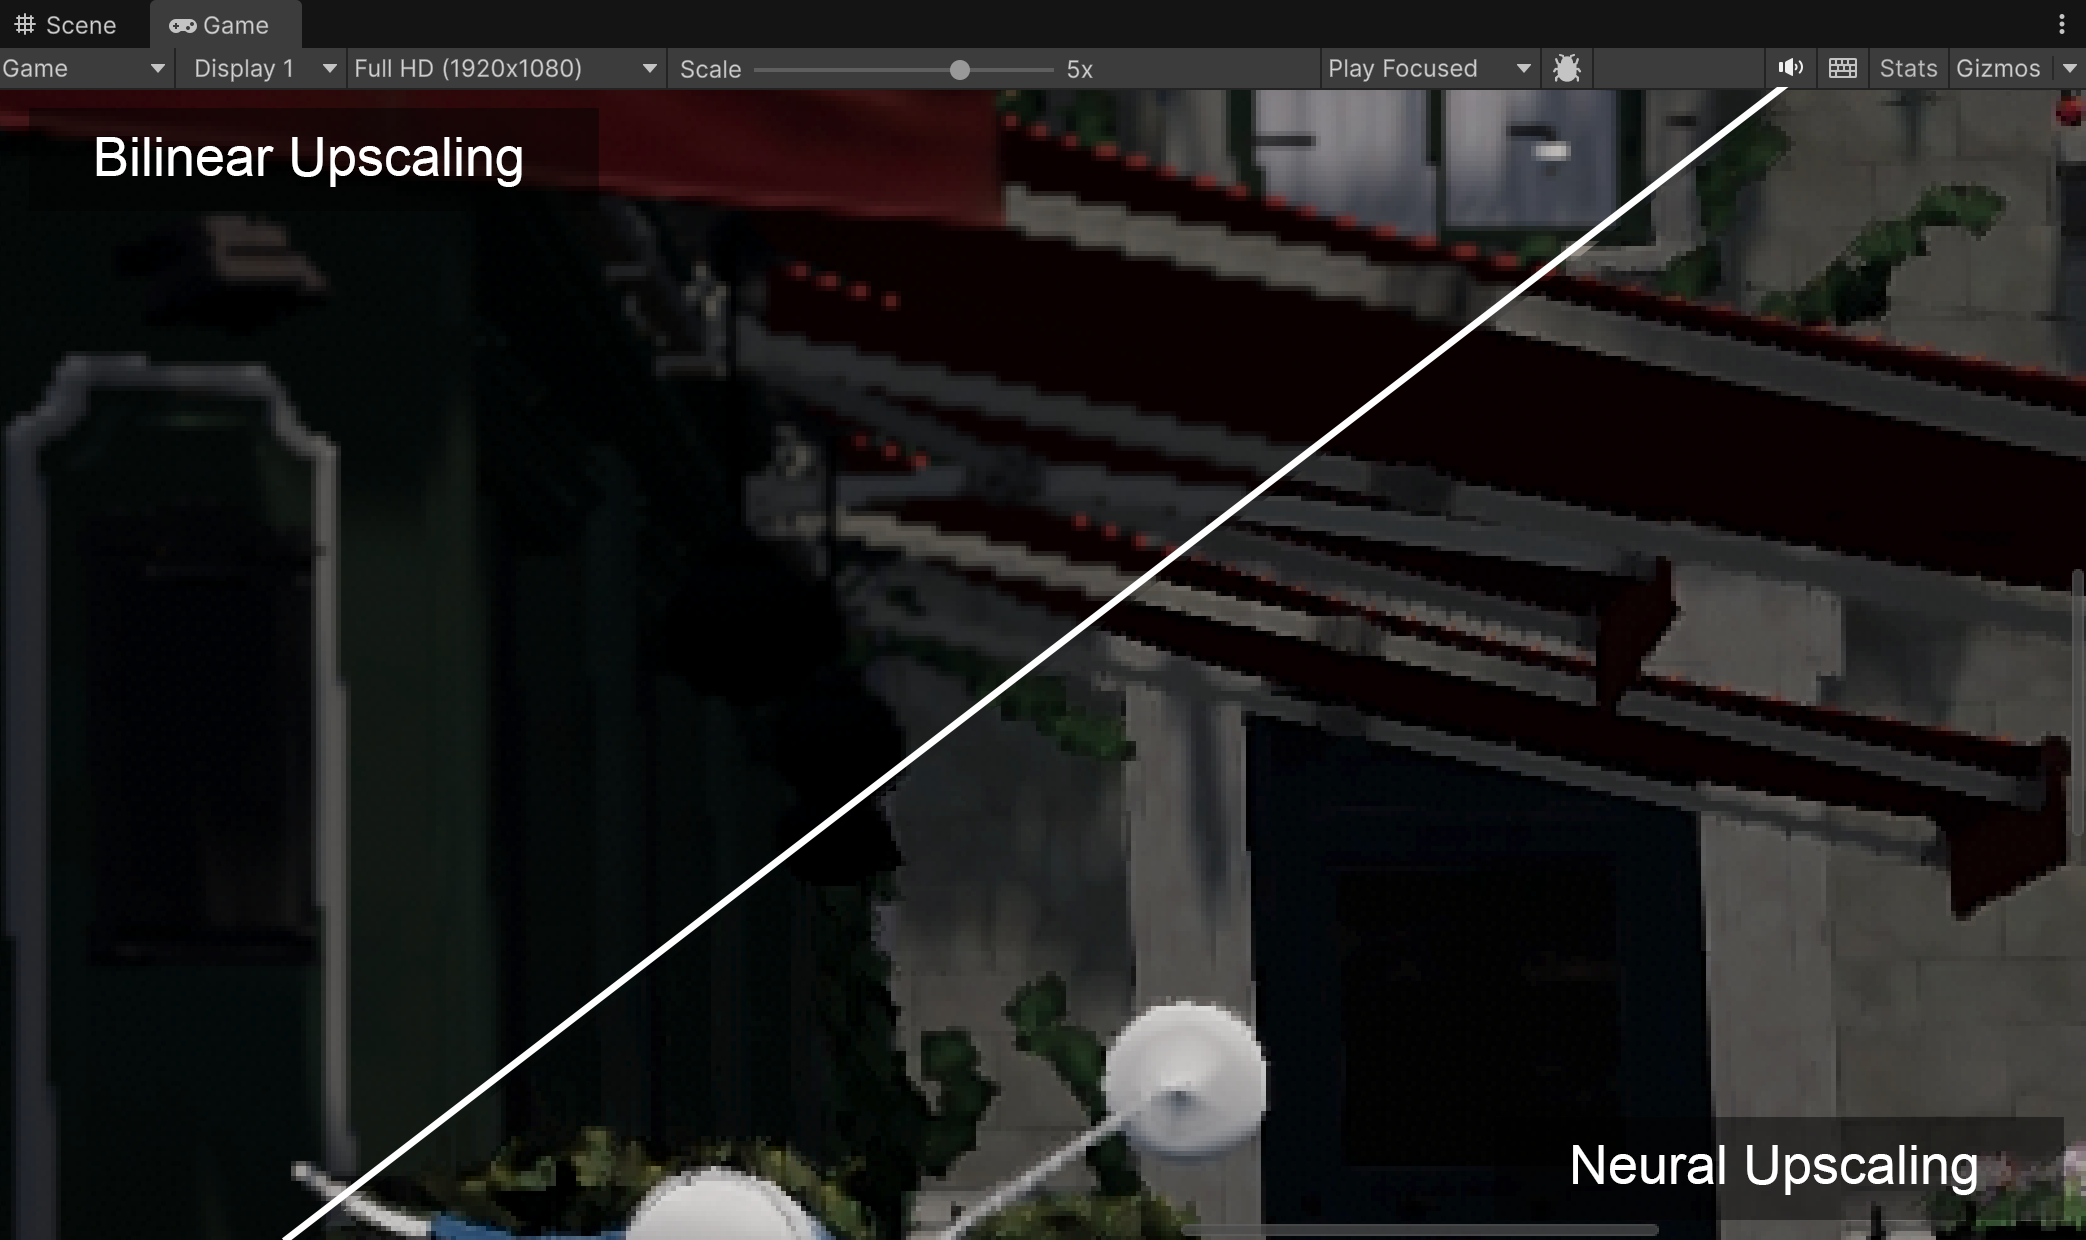
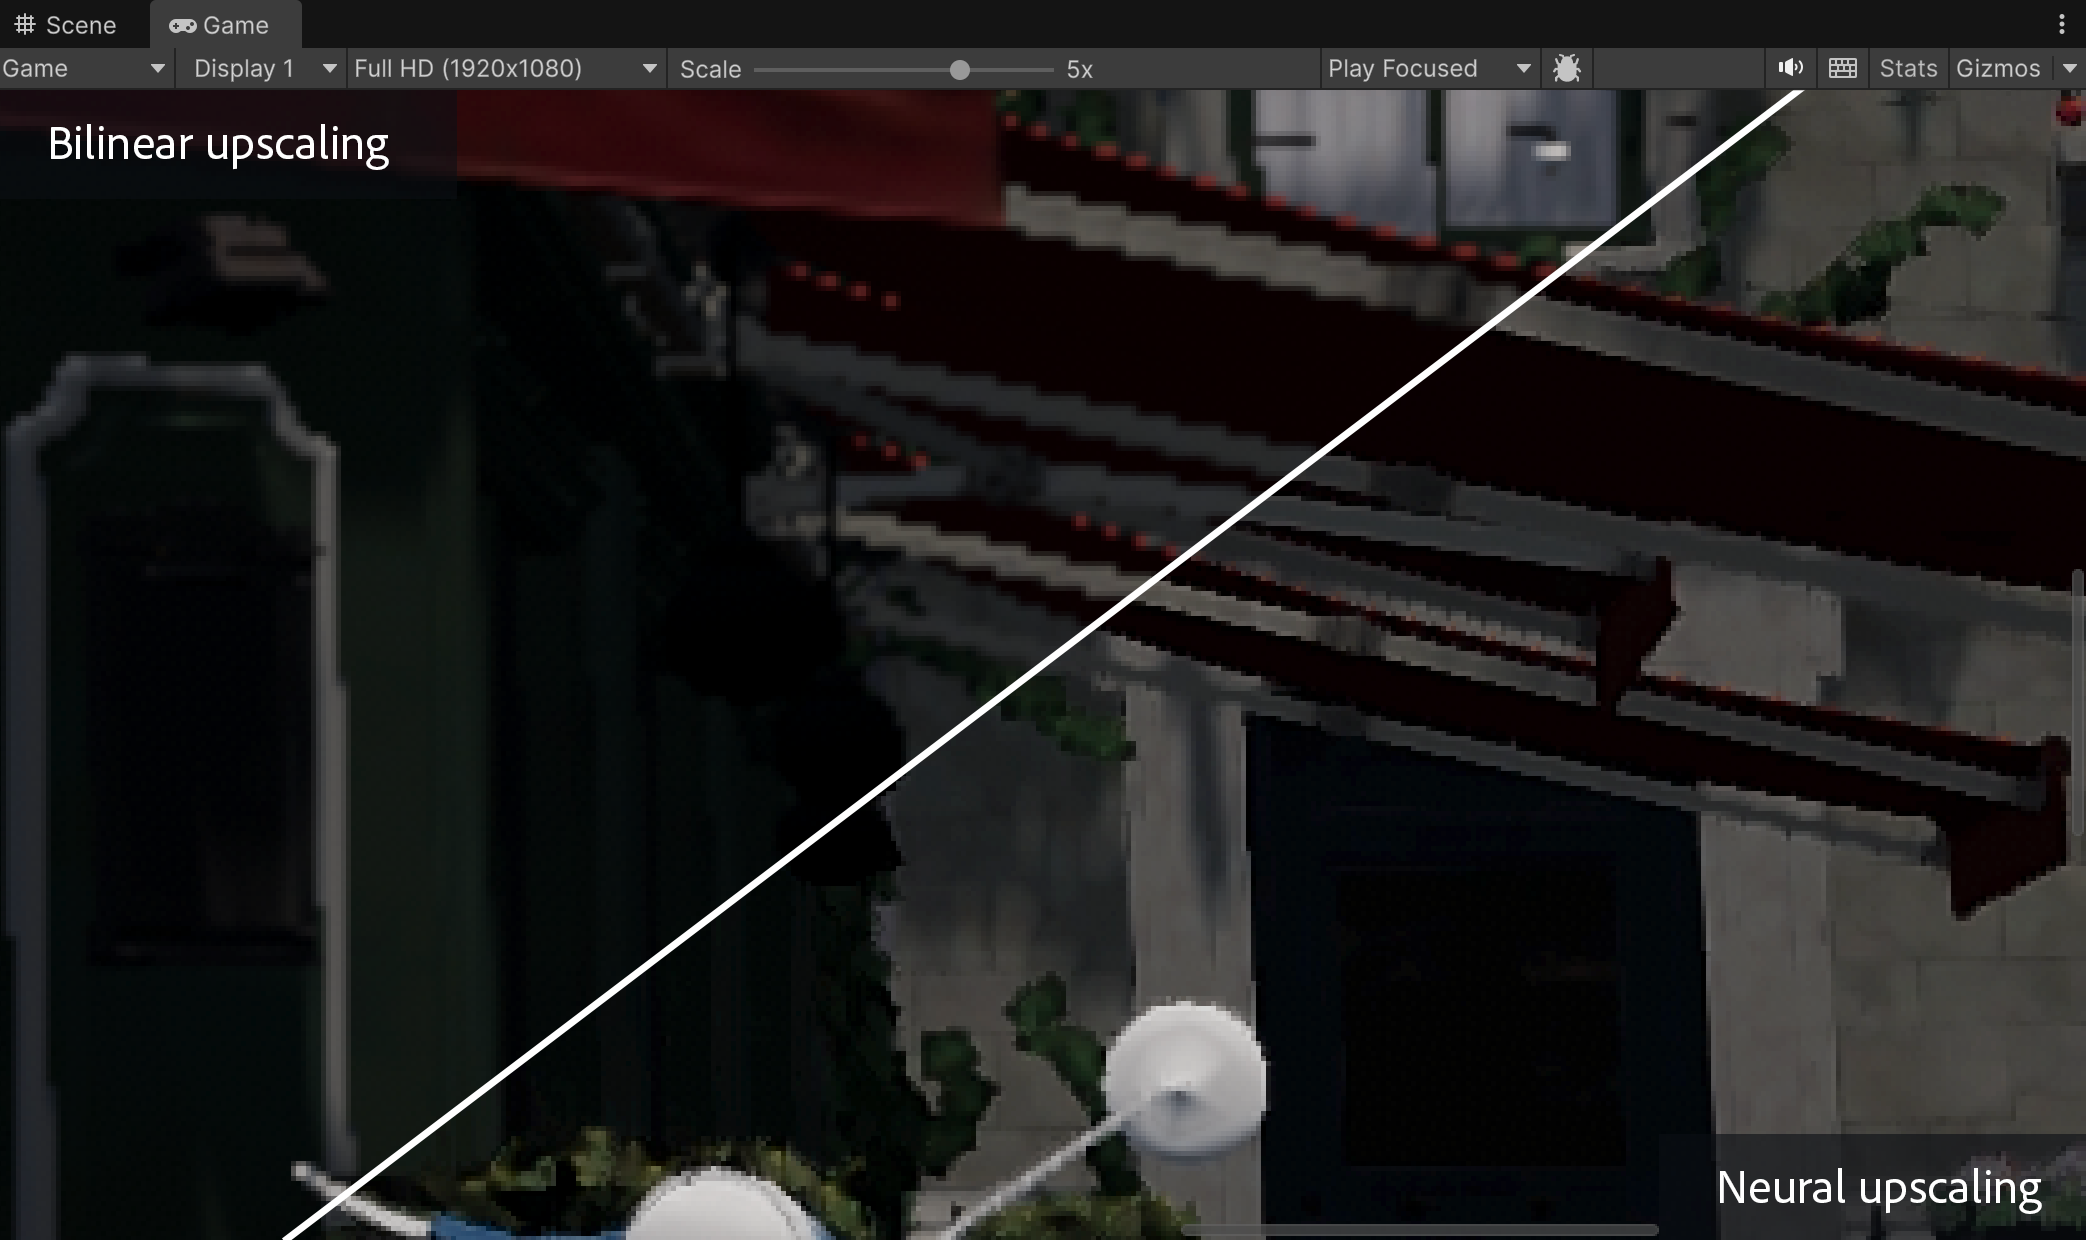
update

diff --git a/index.html b/index.html
@@ -25,7 +25,6 @@
 
   <div class="topbar">
     <span class="prompt">$</span>
-    <span class="name">Elad Damian Nachman</span>
     <span class="email">nachd1337gmail.com</span>
   </div>
 
@@ -57,9 +56,9 @@
 <!-- BAKE:START -->
 # G-buffer Guided Neural Upscaling
 
-<p class="lead">This article recaps my journey to implement a <strong>machine-learning upscaler</strong> for realtime renderers and game engines. I will share the challenges encountered along the way, and various tips and tricks to optimize the model's training and inference.</p>
+<p class="lead">This article recaps my journey to implement a <strong>machine-learning upscaler</strong> for realtime renderers and game engines. I will share the challenges encountered along the way, and various tips and tricks to optimize the model's training and inference.
 
-By training the model using gbuffer rendering data, we are able to reconstruct images with finer detail and generate a crisper image at higher resolution:
+By training the model using gbuffer rendering data, we are able to reconstruct images with fine detail and generate a crisp image at high resolution: </p>
 
 <figure>
   <img width="100%" src="images/lumberyard-bistro-sign.png" alt="Bistro upscale">
@@ -116,7 +115,7 @@ The layer outputs 3 channels: Y, Co, and Cg. These channels represent our pixel'
   <figcaption>Frame reconstruction</figcaption>
 </figure>
 
-**Note:** this model modifies the deferred pipeline to render a full resolution target for the geometry (G-buffer) pass. All other render passes including the deferred lighting pass are kept at half resolution. The high resolution G-buffer is used as a guide to help our network reconstruct fine details and better preserve the underyling geometry.
+This model modifies the deferred pipeline to render a full resolution target for the geometry (G-buffer) pass. All other render passes including the deferred lighting pass are kept at half resolution. The high resolution G-buffer is used as a guide to help our network reconstruct fine details and better preserve the underyling geometry.
 
 ## Temporal accumulation
 
@@ -137,12 +136,17 @@ float3 Accumulate(float3 R, float3 H, uint N)
 }
 ```
 
-The upscaler will temporally accumulate newly reconstructed subsamples across frames, extracting texture detail and generating crisp edges:
+The upscaler will temporally accumulate newly reconstructed subsamples across frames, extracting texture detail and generating smoother edges:
 
 <figure>
-  <img width="100%" src="images/foliage.png" alt="Foliage">
-  <figcaption>Foliage upscaling (bilinear vs neural)</figcaption>
+  <img width="100%" src="images/foliage.png" alt="Foliage upscale">
 </figure>
+<figure>
+  <img width="100%" src="images/lumberyard-bistro.png" alt="Bistro upscale">
+</figure>
+
+
+The motion-warped history color can be stale or disoccluded. Ghosting can occur when the motion-warped color bilinearly filters two surfaces together. The per-frame reconstruction can also suffer from noisy chrominance. Both isssues are addressed by clamping the history sample and `Co`/`Cg` reconstruction to the low-resolution input's color neighborhood.
 
 ## Color space
 
@@ -232,32 +236,6 @@ Another option would be to use a <strong>normalized Log</strong> tonemapper whic
 </figure>
 
 A third option for high-luminance content is using a more complex <strong>Hybrid-Log-Gamma</strong> (HLG) tonemapper. HLG uses a gamma curve for dark/mid-range values and switches to a logarithmic curve for high luminance. This maintains a better balance for both mid and high tones compared to normalized Log.
-
-## Clamping
-
-The motion-warped history can be stale or disoccluded at a geometry border the foreground and background move differently, so a single motion vector warps *across* the boundary and bilinearly mixes two surfaces' colors. The per-frame reconstruction also suffers from noisy chrominance because we weight luminance far more heavily than chroma in the loss function. This may show up as colored fringing along edges.
-
-Both isssues are addressed by clamping to the low-resolution color neighborhood, a variance-clipping technique borrowed from temporal anti-aliasing. For each pixel we build a color box from the 3×3 LR neighborhood (its mean ± γ·σ, computed in YCoCg) and clamp the target value into that box:
-
-```
-// Variance-clip a YCoCg value `c` to the local LR color box 
-float3 clampToLR(float3 c, float2 uv, float gamma) {
-    float3 m1 = 0, m2 = 0;
-    for (int dy = -1; dy <= 1; ++dy)
-    for (int dx = -1; dx <= 1; ++dx) {
-        float3 s = rgb2ycocg(SampleLR(uv + offset(dx, dy)));
-        m1 += s; 
-        m2 += s * s;              
-    }
-    m1 /= 9.0; m2 /= 9.0;
-    float3 sd = sqrt(max(m2 - m1 * m1, 0.0));   
-    return clamp(c, m1 - gamma * sd, m1 + gamma * sd);
-}
-```
-
-We clamp the motion-warped history to this box before blending. If the warp landed on a clean, consistent surface the history sits inside the box and passes through untouched. Where it sampled across a disocclusion or geometry border, it is pulled back toward the current frame. Rejecting ghosts and the chromatic edge fringe.
-
-The same box can be applied to the reconstruction. We clamp only the `Co`/`Cg` components and leave luminance untouched. This removes the chromatic fringing while keeping the luminance detail fully crisp.
 
 ## Capture rig
 

diff --git a/articles/neural-temporal-upscaling.md b/articles/neural-temporal-upscaling.md
@@ -1,8 +1,8 @@
 # G-buffer Guided Neural Upscaling
 
-<p class="lead">This article recaps my journey to implement a <strong>machine-learning upscaler</strong> for realtime renderers and game engines. I will share the challenges encountered along the way, and various tips and tricks to optimize the model's training and inference.</p>
+<p class="lead">This article recaps my journey to implement a <strong>machine-learning upscaler</strong> for realtime renderers and game engines. I will share the challenges encountered along the way, and various tips and tricks to optimize the model's training and inference.
 
-By training the model using gbuffer rendering data, we are able to reconstruct images with finer detail and generate a crisper image at higher resolution:
+By training the model using gbuffer rendering data, we are able to reconstruct images with fine detail and generate a crisp image at high resolution: </p>
 
 <figure>
   <img width="100%" src="images/lumberyard-bistro-sign.png" alt="Bistro upscale">
@@ -59,7 +59,7 @@ The layer outputs 3 channels: Y, Co, and Cg. These channels represent our pixel'
   <figcaption>Frame reconstruction</figcaption>
 </figure>
 
-**Note:** this model modifies the deferred pipeline to render a full resolution target for the geometry (G-buffer) pass. All other render passes including the deferred lighting pass are kept at half resolution. The high resolution G-buffer is used as a guide to help our network reconstruct fine details and better preserve the underyling geometry.
+This model modifies the deferred pipeline to render a full resolution target for the geometry (G-buffer) pass. All other render passes including the deferred lighting pass are kept at half resolution. The high resolution G-buffer is used as a guide to help our network reconstruct fine details and better preserve the underyling geometry.
 
 ## Temporal accumulation
 
@@ -80,12 +80,17 @@ float3 Accumulate(float3 R, float3 H, uint N)
 }
 ```
 
-The upscaler will temporally accumulate newly reconstructed subsamples across frames, extracting texture detail and generating crisp edges:
+The upscaler will temporally accumulate newly reconstructed subsamples across frames, extracting texture detail and generating smoother edges:
 
 <figure>
-  <img width="100%" src="images/foliage.png" alt="Foliage">
-  <figcaption>Foliage upscaling (bilinear vs neural)</figcaption>
+  <img width="100%" src="images/foliage.png" alt="Foliage upscale">
 </figure>
+<figure>
+  <img width="100%" src="images/lumberyard-bistro.png" alt="Bistro upscale">
+</figure>
+
+
+The motion-warped history color can be stale or disoccluded. Ghosting can occur when the motion-warped color bilinearly filters two surfaces together. The per-frame reconstruction can also suffer from noisy chrominance. Both isssues are addressed by clamping the history sample and `Co`/`Cg` reconstruction to the low-resolution input's color neighborhood.
 
 ## Color space
 
@@ -175,32 +180,6 @@ Another option would be to use a <strong>normalized Log</strong> tonemapper whic
 </figure>
 
 A third option for high-luminance content is using a more complex <strong>Hybrid-Log-Gamma</strong> (HLG) tonemapper. HLG uses a gamma curve for dark/mid-range values and switches to a logarithmic curve for high luminance. This maintains a better balance for both mid and high tones compared to normalized Log.
-
-## Clamping
-
-The motion-warped history can be stale or disoccluded at a geometry border the foreground and background move differently, so a single motion vector warps *across* the boundary and bilinearly mixes two surfaces' colors. The per-frame reconstruction also suffers from noisy chrominance because we weight luminance far more heavily than chroma in the loss function. This may show up as colored fringing along edges.
-
-Both isssues are addressed by clamping to the low-resolution color neighborhood, a variance-clipping technique borrowed from temporal anti-aliasing. For each pixel we build a color box from the 3×3 LR neighborhood (its mean ± γ·σ, computed in YCoCg) and clamp the target value into that box:
-
-```
-// Variance-clip a YCoCg value `c` to the local LR color box 
-float3 clampToLR(float3 c, float2 uv, float gamma) {
-    float3 m1 = 0, m2 = 0;
-    for (int dy = -1; dy <= 1; ++dy)
-    for (int dx = -1; dx <= 1; ++dx) {
-        float3 s = rgb2ycocg(SampleLR(uv + offset(dx, dy)));
-        m1 += s; 
-        m2 += s * s;              
-    }
-    m1 /= 9.0; m2 /= 9.0;
-    float3 sd = sqrt(max(m2 - m1 * m1, 0.0));   
-    return clamp(c, m1 - gamma * sd, m1 + gamma * sd);
-}
-```
-
-We clamp the motion-warped history to this box before blending. If the warp landed on a clean, consistent surface the history sits inside the box and passes through untouched. Where it sampled across a disocclusion or geometry border, it is pulled back toward the current frame. Rejecting ghosts and the chromatic edge fringe.
-
-The same box can be applied to the reconstruction. We clamp only the `Co`/`Cg` components and leave luminance untouched. This removes the chromatic fringing while keeping the luminance detail fully crisp.
 
 ## Capture rig
 